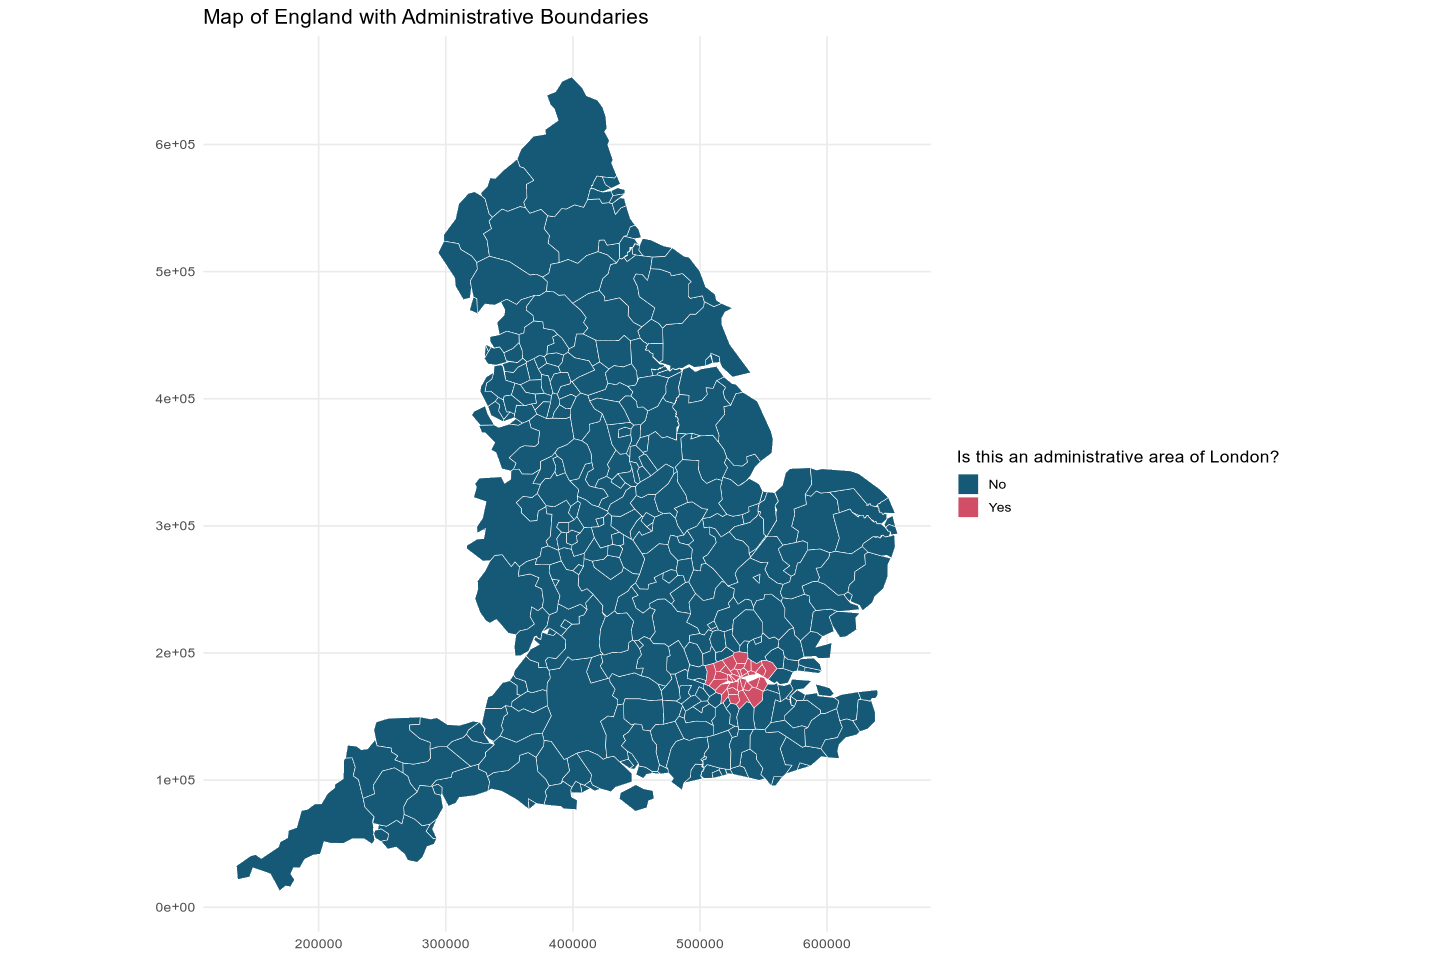
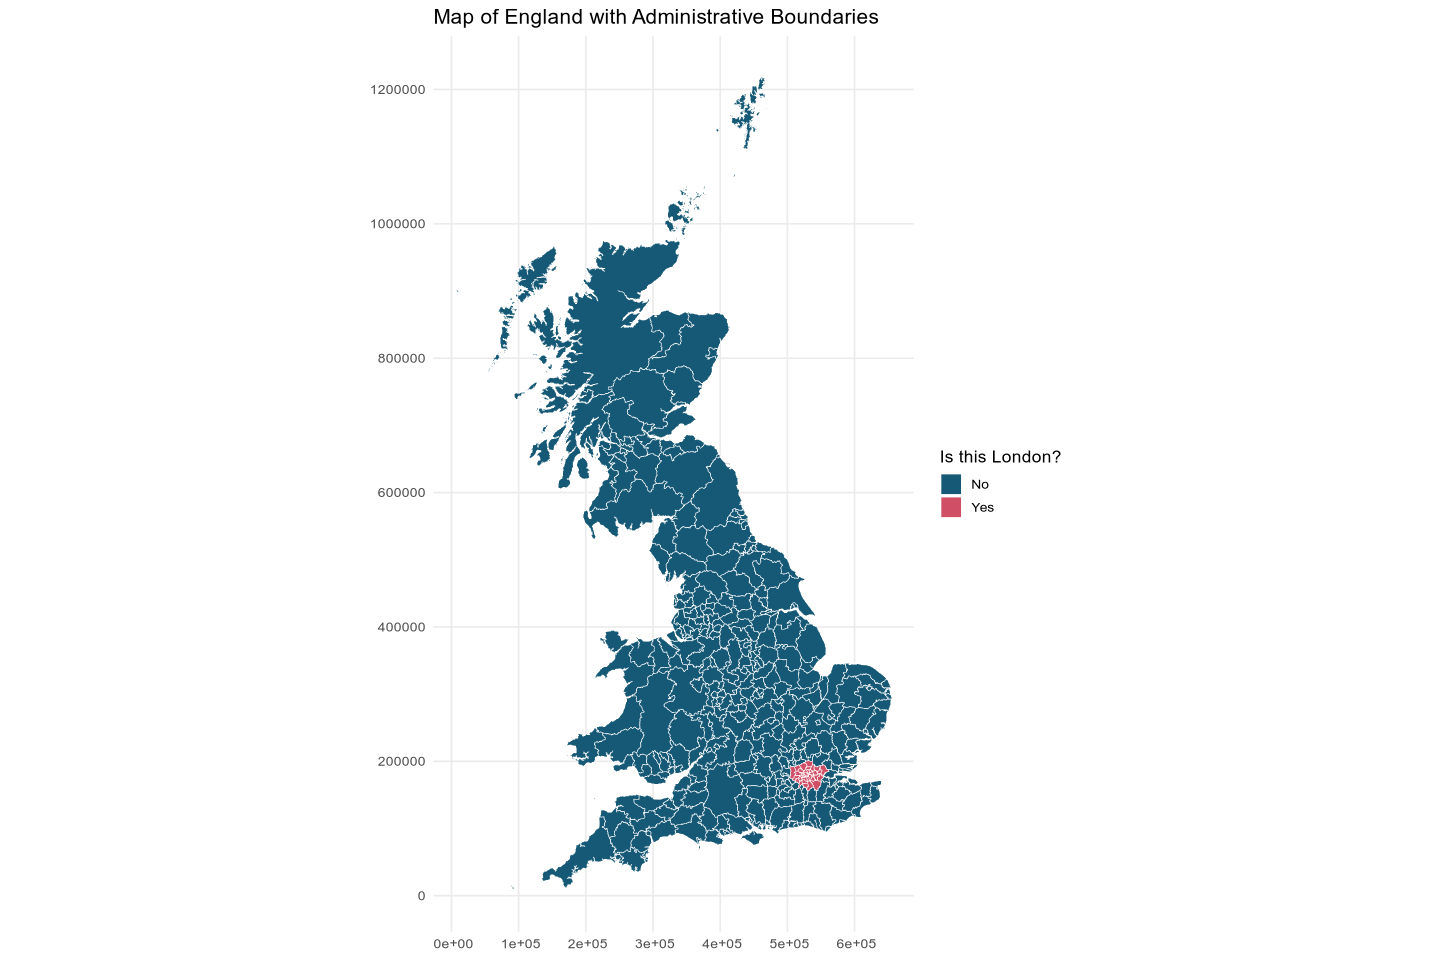
update readme

diff --git a/README.md b/README.md
@@ -1,12 +1,16 @@
 
 <!-- README.md is generated from README.Rmd. Please edit that file -->
 
-# ukmaps
+# ukmaps <img src="man/figures/logo.svg" align="right" height="139" alt="" />
 
 <!-- badges: start -->
 
 [![BuyMeACoffee](https://raw.githubusercontent.com/pachadotdev/buymeacoffee-badges/main/bmc-yellow.svg)](https://www.buymeacoffee.com/pacha)
 <!-- badges: end -->
+
+*If you need an R package or Shiny dashboard for your team, you can
+email me or inquiry on
+[Fiverr](https://www.fiverr.com/sellers/msepulveda3).*
 
 Ukmaps provides simplified maps of the United Kingdom administrative and
 electoral boundaries. Includes maps for England, Scotland, Wales, and
@@ -23,33 +27,58 @@ You can install the development version of ukmaps like so:
 remotes::install_github("pachadotdev/ukmaps")
 ```
 
-## Example
+## Examples
+
+Yes/No map of London administrative areas:
 
 ``` r
 library(ukmaps)
 library(dplyr)
 library(ggplot2)
 
-london_areas <- c(
-  "City of London", "Barking and Dagenham", "Barnet", "Bexley", "Brent", "Bromley",
-  "Camden", "Croydon", "Ealing", "Enfield", "Greenwich", "Hackney", "Hammersmith and Fulham",
-  "Haringey", "Harrow", "Havering", "Hillingdon", "Hounslow", "Islington",
-  "Kensington and Chelsea", "Kingston upon Thames", "Lambeth", "Lewisham", "Merton",
-  "Newham", "Redbridge", "Richmond upon Thames", "Southwark", "Sutton",
-  "Tower Hamlets", "Waltham Forest", "Wandsworth", "Westminster"
-)
-
 d <- administrative %>%
-  filter(country == "England") %>%
-  mutate(is_london = if_else(area_name %in% london_areas, "Yes", "No"))
+  mutate(is_london = if_else(region == "London", "Yes", "No"))
 
 pal <- c("#165976", "#d04e66")
 
 ggplot(d) + 
   geom_sf(aes(fill = is_london, geometry = geometry), color = "white") +
-  scale_fill_manual(values = pal, name = "Is this an administrative area of London?") +
+  scale_fill_manual(values = pal, name = "Is this London?") +
   labs(title = "Map of England with Administrative Boundaries") +
   theme_minimal(base_size = 13)
 ```
 
 <img src="man/figures/README-example-1.png" width="100%" />
+
+Country-level map of the UK:
+
+``` r
+pal <- c("#165976", "#d04e66", "#ffd613")
+
+# country() aggregates the map to country level
+ggplot(country()) + 
+  geom_sf(aes(fill = country, geometry = geometry), color = "white") +
+  scale_fill_manual(values = pal, name = "Country") +
+  labs(title = "Map of England with Country Boundaries") +
+  theme_minimal(base_size = 13)
+```
+
+<img src="man/figures/README-example2-1.png" width="100%" />
+
+Which part of Barnet is Golders Green in?
+
+``` r
+d <- electoral %>%
+  filter(lad_name == "Barnet" & boundary_type == "ward") %>%
+  mutate(is_golders_green = if_else(area_name == "Golders Green", "Yes", "No"))
+
+pal <- c("#165976", "#d04e66")
+
+ggplot(d) + 
+  geom_sf(aes(fill = is_golders_green, geometry = geometry), color = "white") +
+  scale_fill_manual(values = pal, name = "Is this Golders Green?") +
+  labs(title = "Map of Barnet (London) with Electoral Boundaries") +
+  theme_minimal(base_size = 13)
+```
+
+<img src="man/figures/README-example3-1.png" width="100%" />
